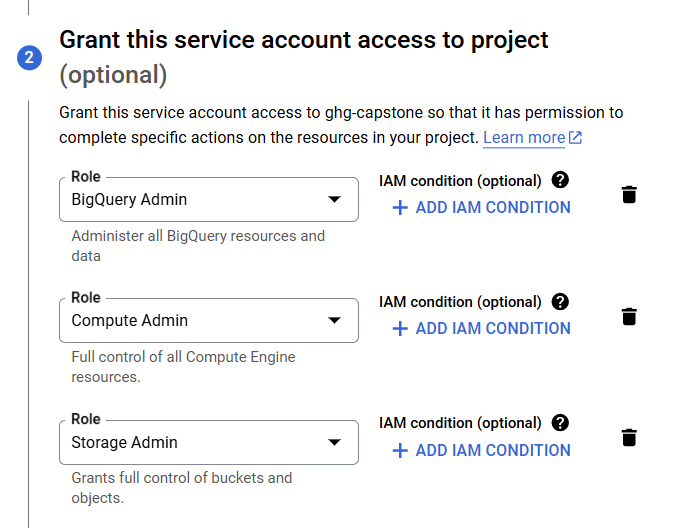
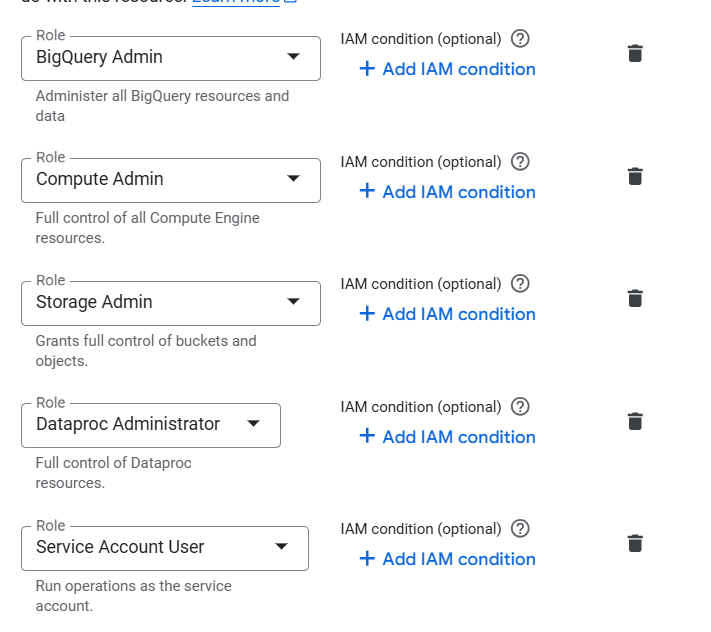
test- updated setup notes

diff --git a/setup/setup.md b/setup/setup.md
@@ -2,9 +2,21 @@
 2. Install Google Cloud SDK.
 3. Create service account `ghg-user`. Give the below permissions:
     ![alt text](../images/permissions.png)
-4. Create SSH key (if you don't have it yet), add it to GCP. In order to login to the VM. 
-5. Enable compute engine API, BigQuery API, IAM API, dataproc api. 
-6. Create a vm - ghg-capstone-vm with the below specifications:
+4. Create SSH key (if you don't have it yet), and add it to GCP. In order to login to the VM.
+
+    (Generate SSH keys to login to VM instances (if you don't have it yet). This will generate a 2048 bit rsa ssh keypair, named gcp and a comment of <username>. The comment (<username>) will be the user on VM :
+
+    In terminal:
+
+    ```bash
+    cd ~/.ssh
+    ssh-keygen -t rsa -f ~/.ssh/<sshkey_name> -C <username>
+    ```
+
+    Copy the generated public key to google cloud: (Compute Engine -> Metadata -> SSH Keys -> Add ssh key) and copy all from file <sshkey_name>.pub. If you already have SSH key to work with your GCP, you can reuse it.)
+
+5. Enable compute engine API, BigQuery API, IAM API, Dataproc API. 
+6. Create a vm - `ghg-capstone-vm` with the below specifications:
     - Machine Configs: 
         - instance name: `ghg-capstone-vm`
         - region: `europe-west1 (belgium)`
@@ -16,10 +28,15 @@
     - Identity & API access:
         - select `scope`-`allow default access` and `firewall`-`allow https traffic`
 
-7. modify/update config file if you already have it setup to add a new Host `ghg-capstone-vm`.
+7. Modify/update config file if you already have it setup to add a new Host `ghg-capstone-vm`, like this - 
+```
+    Host ghg-capstone-vm 
+        HostName <external-ip>
+        User <username> 
+        IdentityFile ~/.ssh/<sshkey_name>
+```
 8. Login to your VM locally by running `ssh ghg-capstone-vm`. 
-9. Clone this repo using http in the VM. 
-
+9. Clone this repo using http in the VM!
 
 10. go to git repo, pull from origin main, 
 11. then, chmmod +x setup.sh 
@@ -27,12 +44,22 @@
 
 
 13. Add service account keys to VM (locally) - It's convenient to make sure your json file is saved in a Home dir location.
-For example, create .gc in your home dir, add ghg-creds.json there...  then cd to that folder, do sftp ghg-capstone-vm and mkdir .gc, cd .gc then put ghg-creds.json.  (Can I create a setup file for this as well?)
+For example, create `.gc` in your home dir, add `ghg-creds.json` there...  then `cd` to that folder, do `sftp ghg-capstone-vm` and `mkdir .gc`, `cd .gc` then `put ghg-creds.json`.  
 
 Can also do this - locally. 
+```bash
 rimsh@LAPTOP-J29FGN6B MINGW64 ~
 $ scp ~/.gc/ghg-creds.json rimsha@de-zoomcamp:~/.gc/
 ghg-creds.json                                                                            100% 2346    72.6KB/s   00:00
+```
 
+14. Configure gcloud with your service account .json file (Make sure to add the correct path in the .env file)
+```bash
+rimsha@de-zoomcamp:~/GHG-Emissions-Analytics-Pipeline$ source .env
+rimsha@de-zoomcamp:~/GHG-Emissions-Analytics-Pipeline$ export GOOGLE_APPLICATION_CREDENTIALS=$KEY_FILE_PATH
+rimsha@de-zoomcamp:~/GHG-Emissions-Analytics-Pipeline$ gcloud auth activate-service-account --key-file=$KEY_FILE_PATH
+Activated service account credentials for: [ghg-user@ghg-capstone.iam.gserviceaccount.com]
+```
 
+15. Login to your VM via ssh and go to the terraform dir. Run terraform init, terraform plan and terraform apply. 
 
